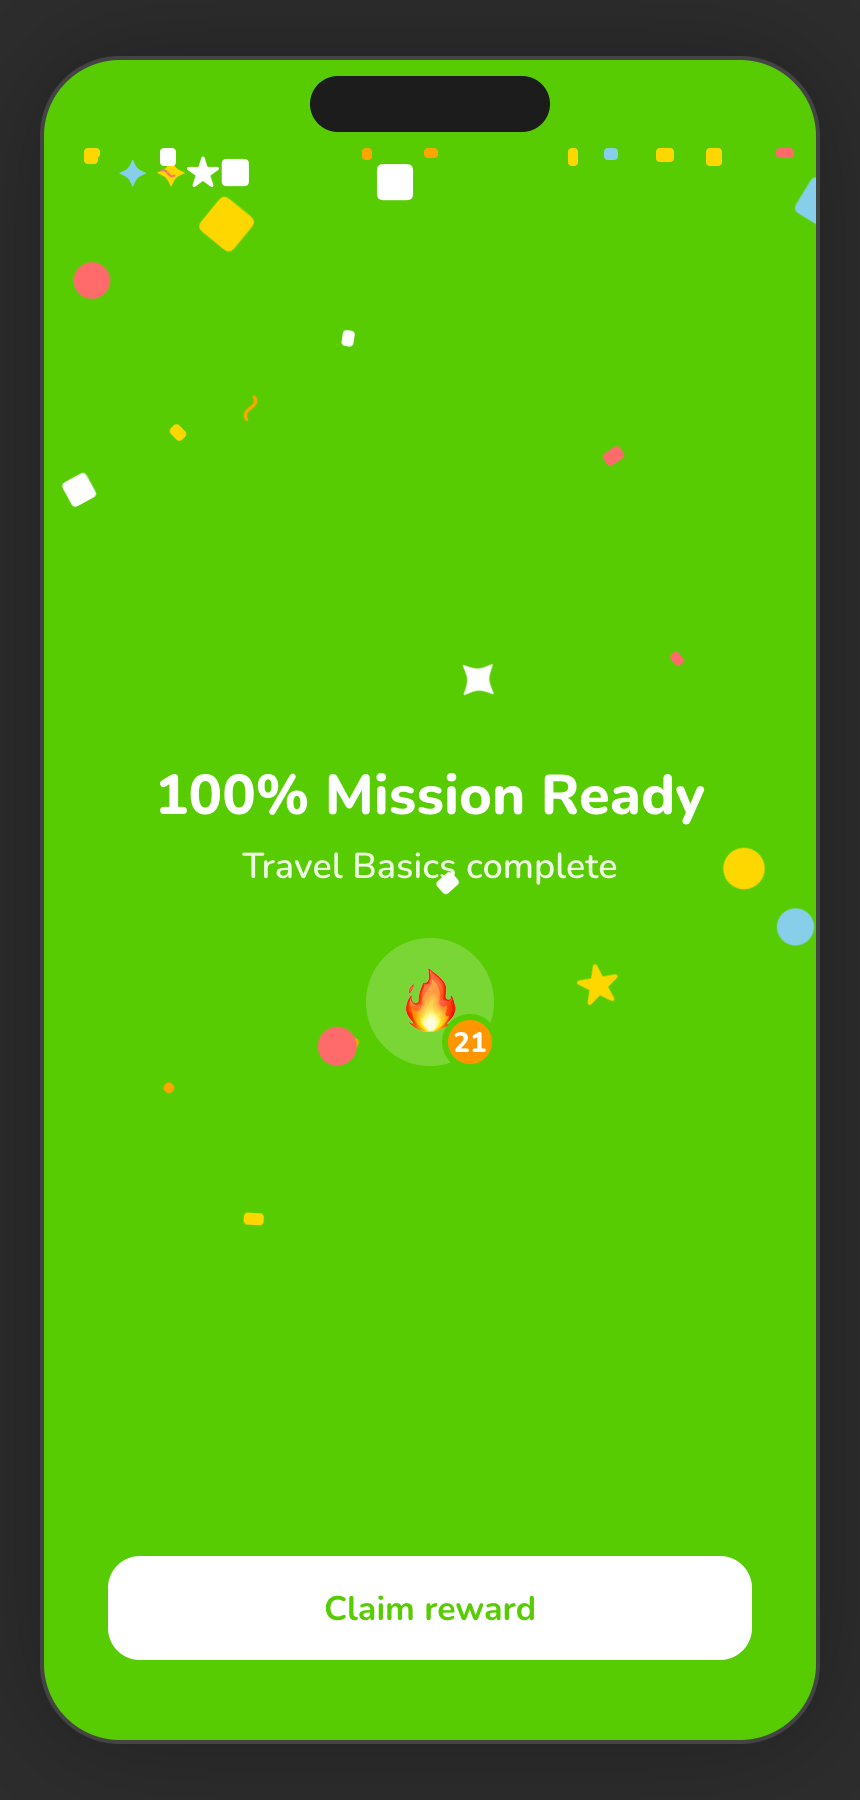
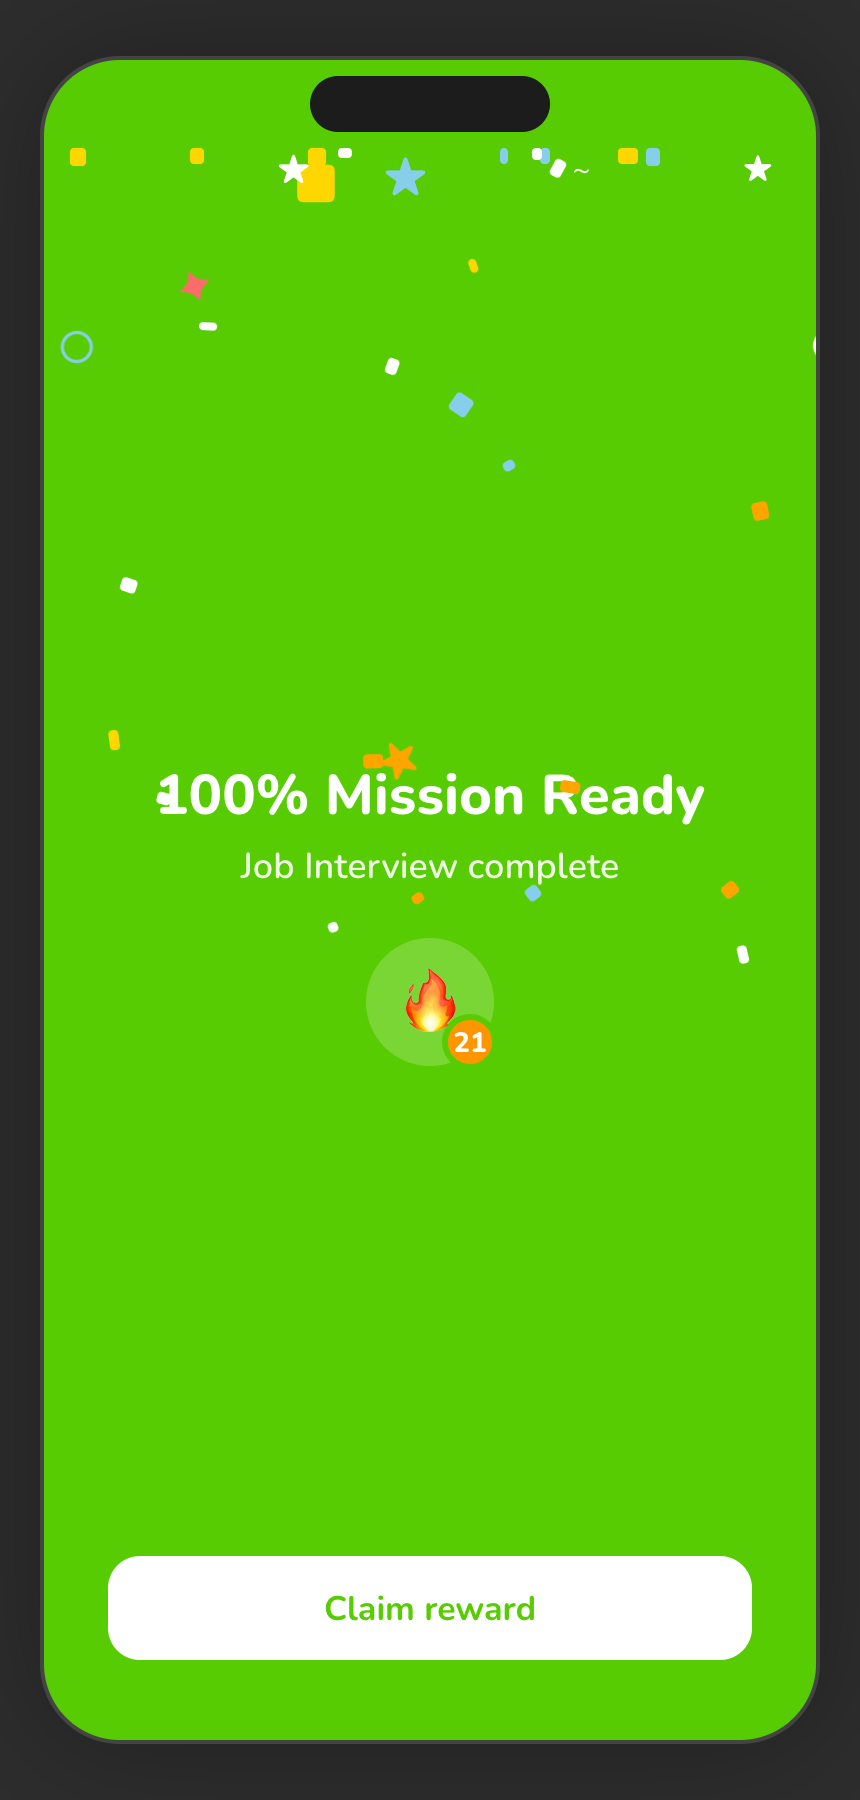
fix: replace 'Travel Basics' with 'Job Interview' across all completion mockups

diff --git a/completion_mockup.html b/completion_mockup.html
@@ -82,7 +82,7 @@ body{background:#2D2D2D;display:flex;align-items:center;justify-content:center;g
   <div class="cele-content">
     <div class="confetti" id="confC"></div>
     <div class="cele-title">100% Mission Ready</div>
-    <div class="cele-sub">Travel Basics complete</div>
+    <div class="cele-sub">Job Interview complete</div>
     <div class="streak-badge">
       <span class="fire">🔥</span>
       <span class="num">21</span>
@@ -100,7 +100,7 @@ body{background:#2D2D2D;display:flex;align-items:center;justify-content:center;g
   <div class="next-content">
     <div class="complete-badge">
       <div class="check-circle"><svg viewBox="0 0 14 14"><path d="M2 7l4 4 6-6" stroke="#FFF" stroke-width="2.5" fill="none" stroke-linecap="round" stroke-linejoin="round"/></svg></div>
-      <div class="complete-text">Travel Basics - <span>Complete</span></div>
+      <div class="complete-text">Job Interview - <span>Complete</span></div>
     </div>
     <div class="next-title">Next Mission</div>
     <div class="mission-card">

diff --git a/completion_celebration.html b/completion_celebration.html
@@ -42,7 +42,7 @@ body{background:#2D2D2D;display:flex;align-items:center;justify-content:center;f
   <div class="cele-content">
     <div class="confetti" id="confC"></div>
     <div class="cele-title">100% Mission Ready</div>
-    <div class="cele-sub">Travel Basics complete</div>
+    <div class="cele-sub">Job Interview complete</div>
     <div class="streak-badge">
       <span class="fire">🔥</span>
       <span class="num">21</span>

diff --git a/completion_next_mission.html b/completion_next_mission.html
@@ -52,7 +52,7 @@ body{background:#2D2D2D;display:flex;align-items:center;justify-content:center;f
   <div class="next-content">
     <div class="complete-badge">
       <div class="check-circle"><svg viewBox="0 0 14 14"><path d="M2 7l4 4 6-6" stroke="#FFF" stroke-width="2.5" fill="none" stroke-linecap="round" stroke-linejoin="round"/></svg></div>
-      <div class="complete-text">Travel Basics - <span>Complete</span></div>
+      <div class="complete-text">Job Interview - <span>Complete</span></div>
     </div>
     <div class="next-title">Next Mission</div>
     <div class="mission-card">